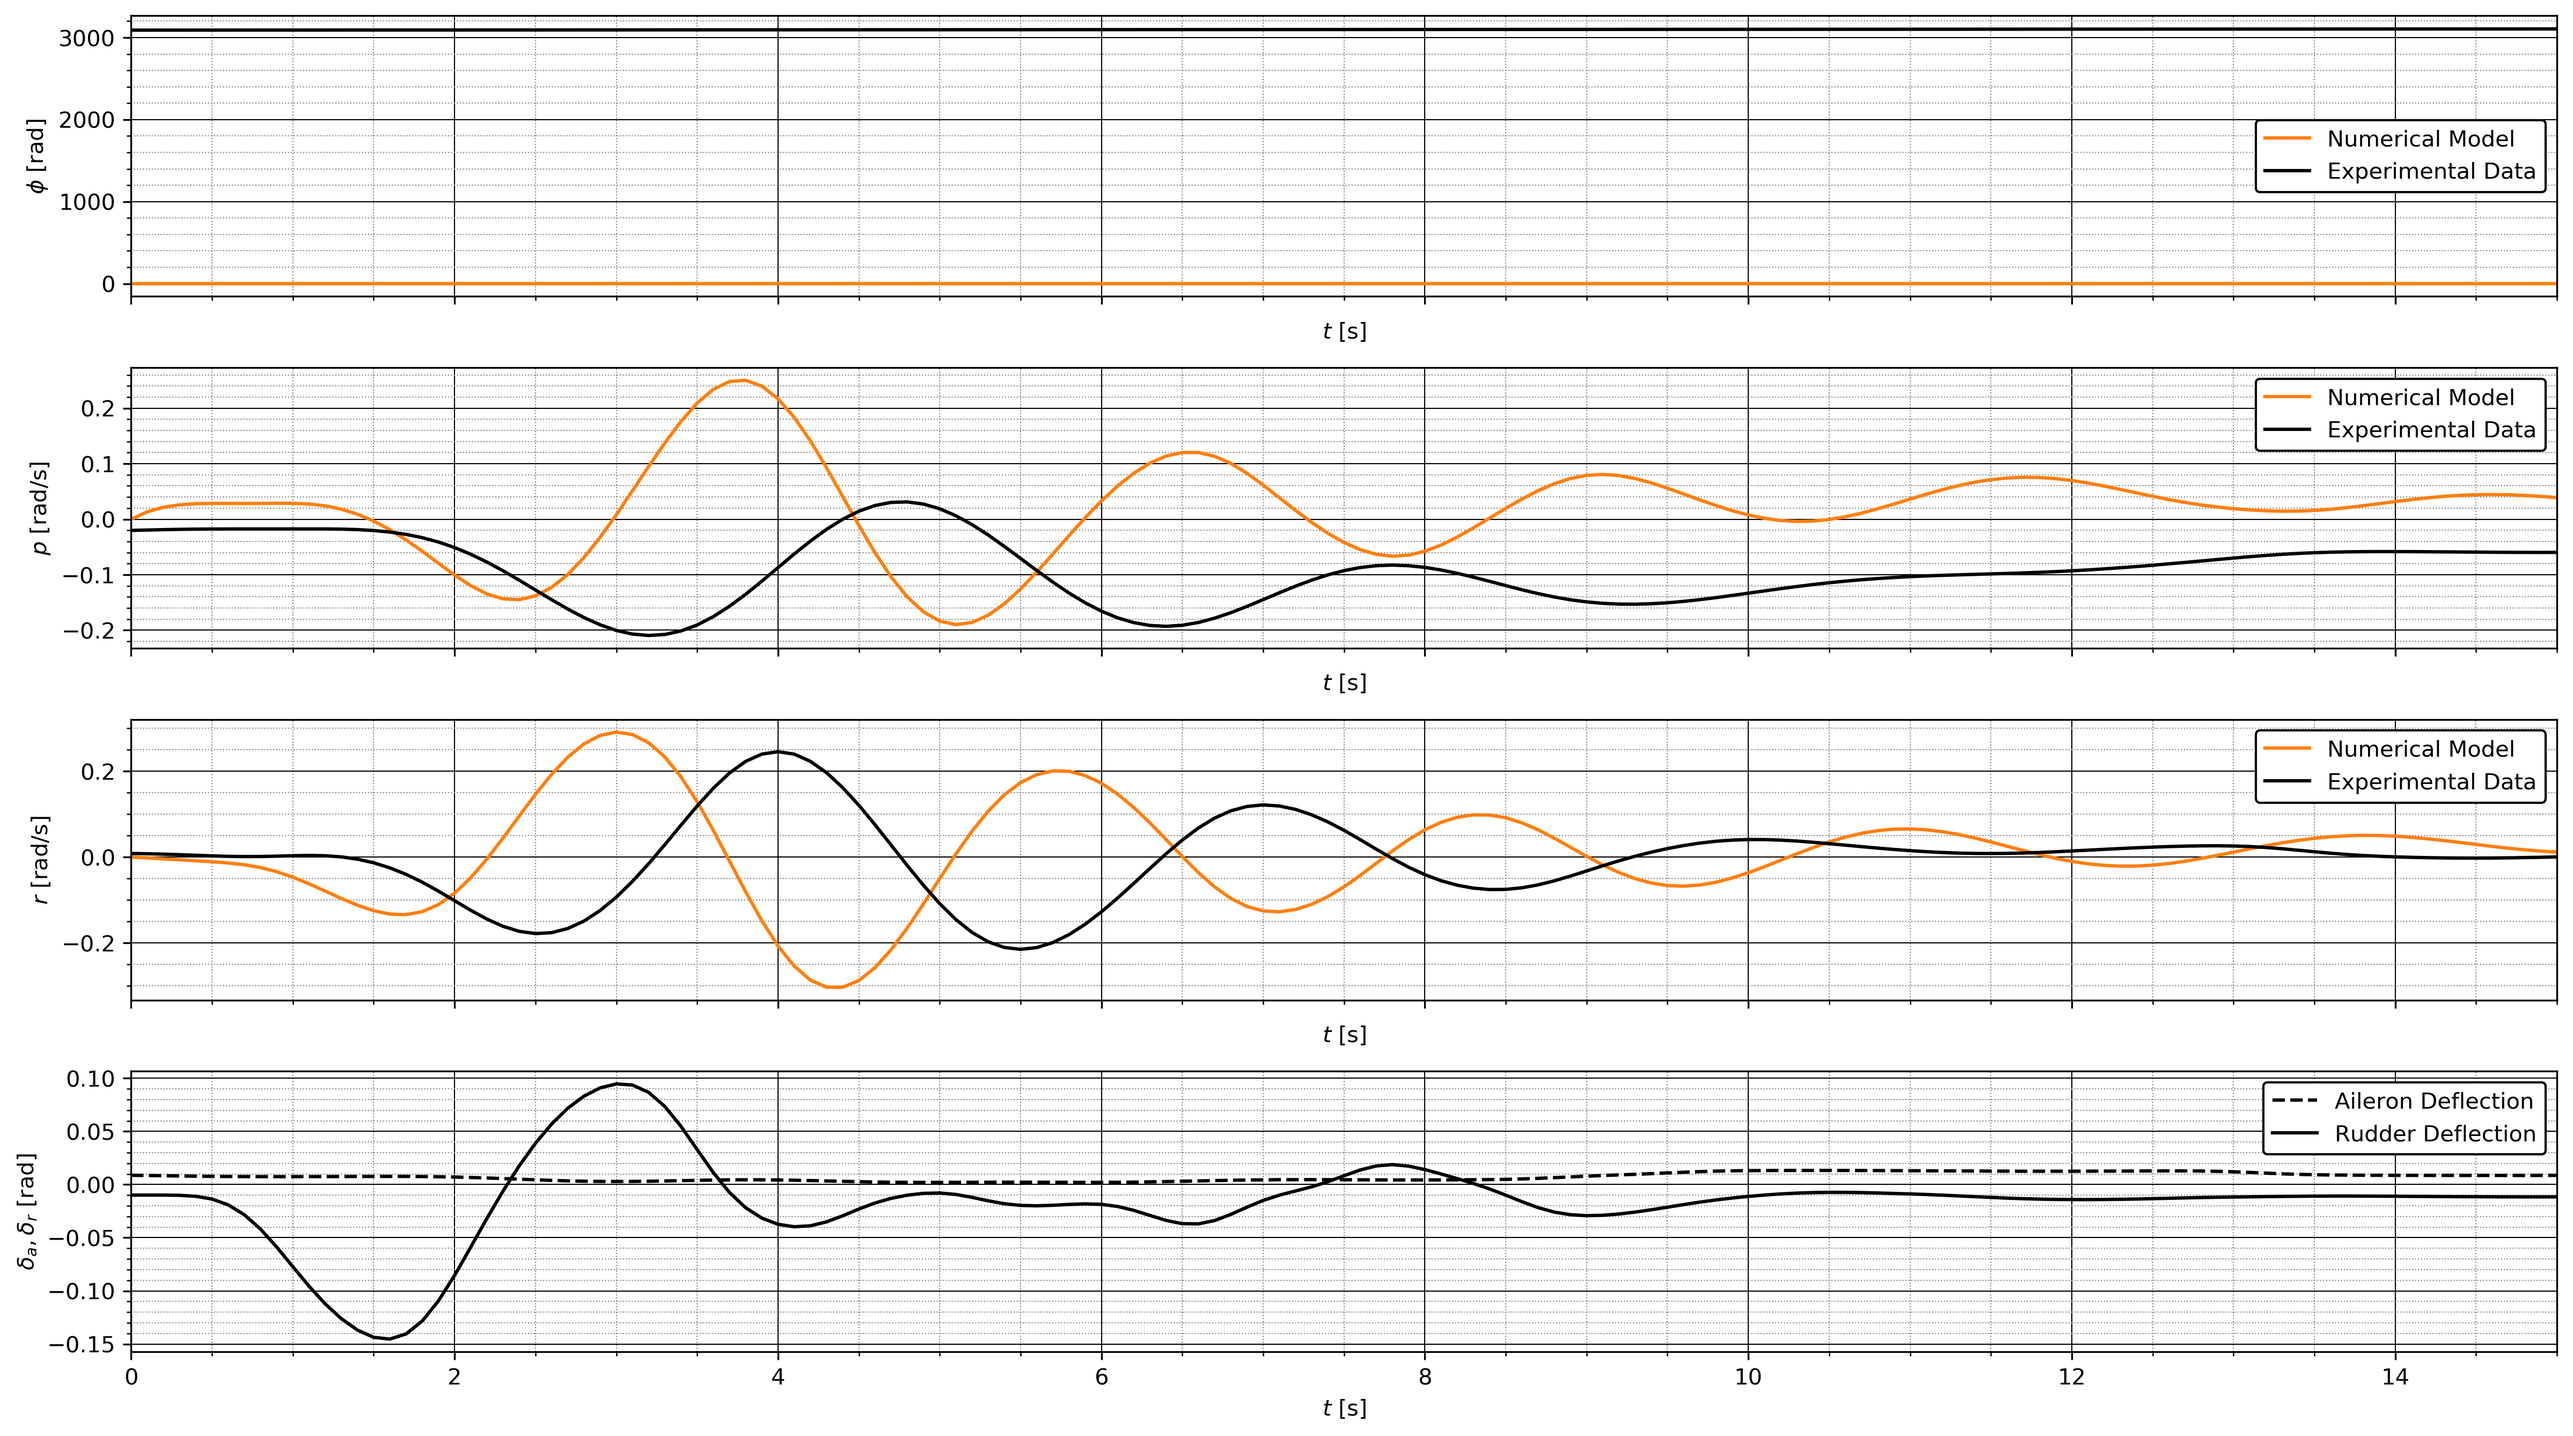
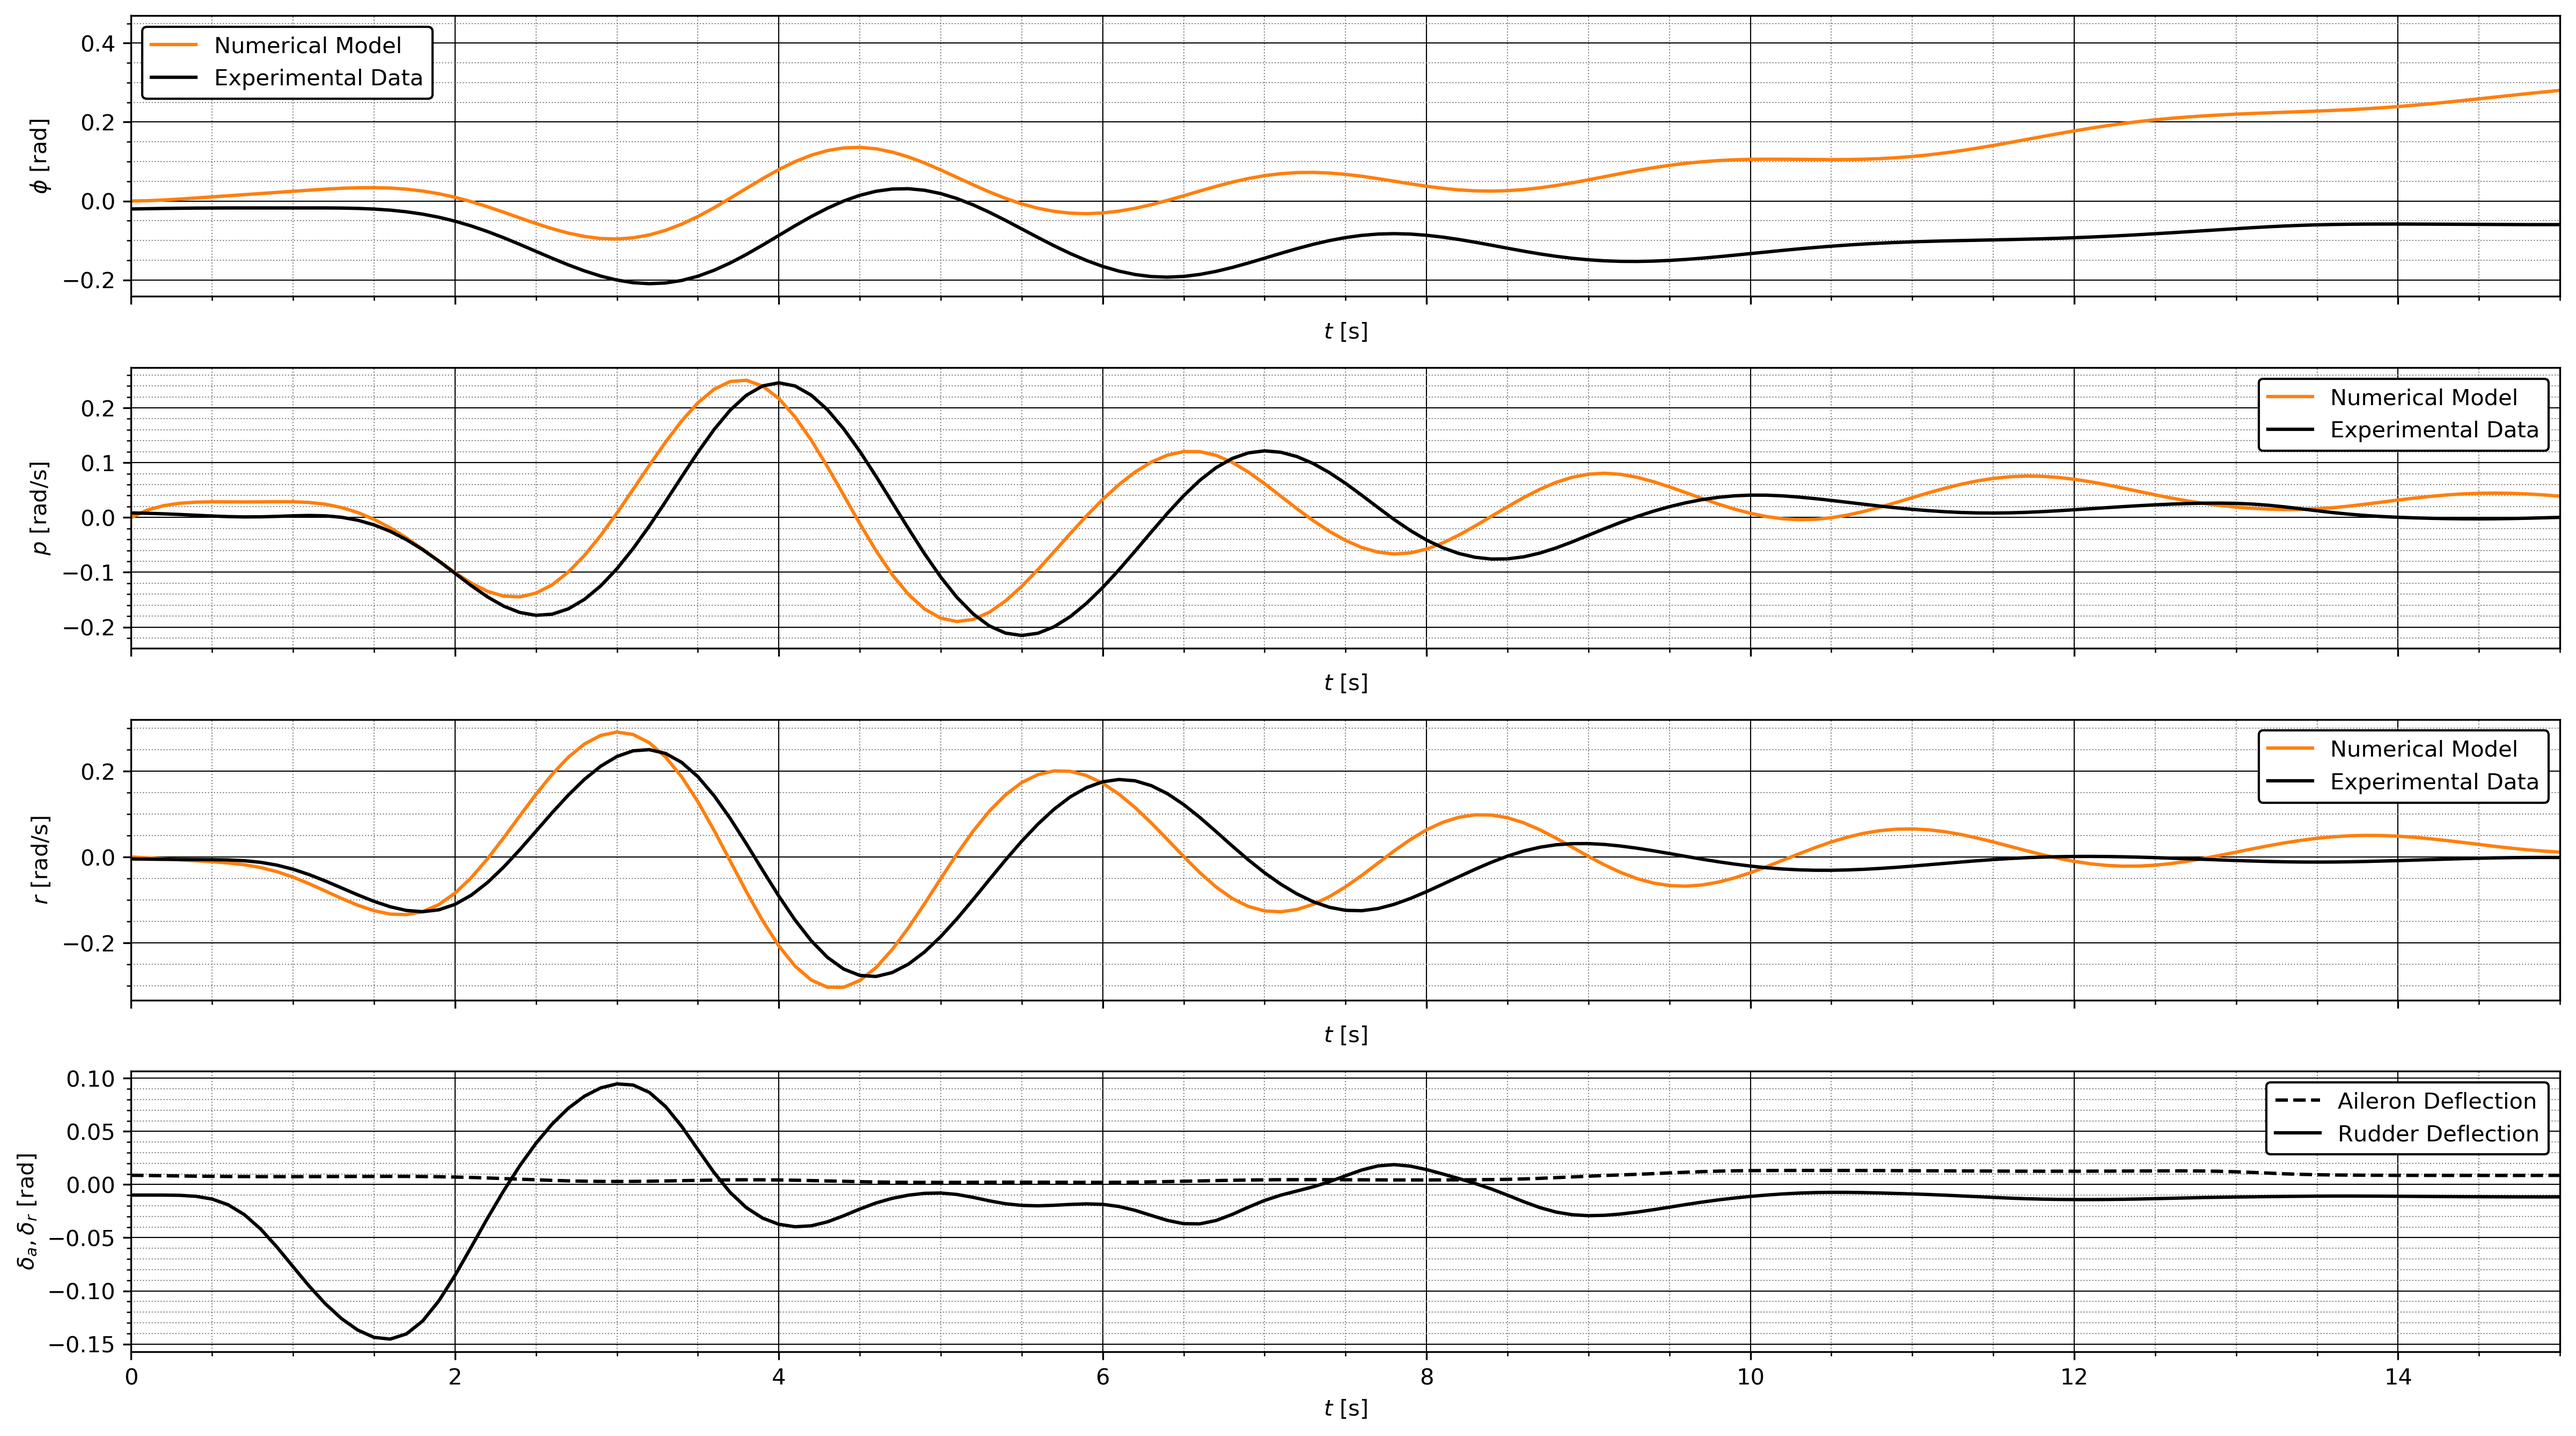
eigenvalues added

diff --git a/main.py b/main.py
@@ -304,11 +304,11 @@ for motion in ['phugoid', 'shortperiod', 'aperroll', 'dutchroll', 'dutchrollYD',
 
     m      = m.mass.iloc[0]                                                                  # [kg] takeoff weight of Cessna Citation II
 
-    e      = 0.5662173213929709                                                              # [-] Oswald factor
+    e      = 0.5949711666751891                                                              # [-] Oswald factor
     # e      = 0.8                                                                             # [-] Oswald factor reference data
-    CD0    = 0.0255504796766271                                                              # [-] Zero lift drag coefficient
+    CD0    = 0.01976539072252899                                                              # [-] Zero lift drag coefficient
     # CD0    = 0.04                                                                            # [-] Zero lift drag coefficient reference data
-    CLa    = 4.557979876353312                                                               # [1/rad] Slope of CL-alpha curve
+    CLa    = 3.8926163611249893                                                               # [1/rad] Slope of CL-alpha curve
     # CLa    = 5.084                                                                           # [1/rad] Slope of CL-alpha curve reference data
 
     Cma    = -0.582128                                                                       # [-] longitudinal stabilty
@@ -494,6 +494,10 @@ for motion in ['phugoid', 'shortperiod', 'aperroll', 'dutchroll', 'dutchrollYD',
         syss = ctl.StateSpace(A_s, B_s, C, D)                                                 # create state-space system for symmetric eigenmotions
         evals, evecs = eig(A_s)                                                               # compute eigenvalues and eigenvectors
 
+        for i in range(0, len(evals)):                                                       # write eigenvalues to textfile
+            f = open('eigenvalues.txt', 'a+')                                                # append lines to existing .txt-file
+            f.write("{}, lambda{}: {} \n".format(motion, (i+1), evals[i]))                   # write eigenvalues
+
         tstop = data.time.iloc[-1] - data.time.iloc[0]                                       # normalise final time value for manouvre
         dt  = np.arange(0, tstop + 0.1, 0.1)                                                 # create time vector with 0.1s step size
 
@@ -532,7 +536,7 @@ for motion in ['phugoid', 'shortperiod', 'aperroll', 'dutchroll', 'dutchrollYD',
             fig1, ax1 = plt.subplots(4,1, squeeze=False, figsize=(16,9))                     # initialise figure with 4 rows and 1 column
             for i in range(0,3):
                 ax1[i,0].plot(t, eigenmotion.iloc[:,i+1], 'C1', label='Numerical Model')     # plot each variable from output vector
-                ax1[i,0].plot(t, flightdata.iloc[:,i], c='k', label='Experimental Data')     # plot each variable from test flight data
+                ax1[i,0].plot(t, flightdata.iloc[:,i+1], c='k', label='Experimental Data')   # plot each variable from test flight data
                 ax1[i,0].set_xticklabels([])                                                 # remove values on x-axis
                 ax1[i,0].set_xlim(0, 120)                                                    # set xmin at 0 and tstop
                 ax1[i,0].set_ylabel('${}$ {}'.format(eigenmotion.columns[i+1], units[i+1]))  # set label of y-axis
@@ -573,7 +577,7 @@ for motion in ['phugoid', 'shortperiod', 'aperroll', 'dutchroll', 'dutchrollYD',
             fig1, ax1 = plt.subplots(4,1, squeeze=False, figsize=(16,9))                     # initialise figure with 4 rows and 1 column
             for i in range(0,3):
                 ax1[i,0].plot(t, eigenmotion.iloc[:,i+1], 'C21', label='Numerical Model')    # plot each variable from output vector
-                ax1[i,0].plot(t, flightdata.iloc[:,i], c='k', label='Experimental Data')     # plot each variable from test flight data
+                ax1[i,0].plot(t, flightdata.iloc[:,i+1], c='k', label='Experimental Data')   # plot each variable from test flight data
                 ax1[i,0].set_xlabel('$t$ [s]')                                               # set label of x-axis
                 ax1[i,0].set_xticklabels([])                                                 # remove values on x-axis
                 ax1[i,0].set_xlim(0, 10)                                                     # set xmin at 0 and tstp
@@ -604,6 +608,10 @@ for motion in ['phugoid', 'shortperiod', 'aperroll', 'dutchroll', 'dutchrollYD',
         sysa = ctl.StateSpace(A_a, B_a, C, D)                                                # create state-space system for symmetric eigenmotions
         evals, evecs = eig(A_a)                                                              # compute eigenvalues and eigenvectors
 
+        for i in range(0, len(evals)):                                                       # write eigenvalues to textfile
+            f = open('eigenvalues.txt', 'a+')                                                # append lines to existing .txt-file
+            f.write("{}, lambda{}: {} \n".format(motion, (i+1), evals[i]))                   # write eigenvalues
+
         tstop = data.time.iloc[-1] - data.time.iloc[0]                                       # normalise final time value for manouvre
         dt  = np.arange(0, tstop + 0.1, 0.1)                                                 # create time vector with 0.1s step size
 
@@ -627,7 +635,7 @@ for motion in ['phugoid', 'shortperiod', 'aperroll', 'dutchroll', 'dutchrollYD',
             fig1, ax1 = plt.subplots(4,1, squeeze=False, figsize=(16,9))                     # initialise figure with 4 rows and 1 column
             for i in range(0,3):
                 ax1[i,0].plot(t, eigenmotion.iloc[:,i+1], 'C1', label='Numerical Model')     # plot each variable from output vector
-                ax1[i,0].plot(t, flightdata.iloc[:,i], c='k', label='Experimental Data')     # plot each variable from test flight data
+                ax1[i,0].plot(t, flightdata.iloc[:,i+1], c='k', label='Experimental Data')   # plot each variable from test flight data
                 ax1[i,0].set_xlabel('$t$ [s]')                                               # set label of x-axis
                 ax1[i,0].set_xticklabels([])                                                 # remove values on x-axis
                 ax1[i,0].set_xlim(0, 13)                                                     # set xmin at 0
@@ -656,7 +664,7 @@ for motion in ['phugoid', 'shortperiod', 'aperroll', 'dutchroll', 'dutchrollYD',
             fig1, ax1 = plt.subplots(4,1, squeeze=False, figsize=(16,9))                     # initialise figure with 4 rows and 1 column
             for i in range(0,3):
                 ax1[i,0].plot(t, eigenmotion.iloc[:,i+1], 'C1', label='Numerical Model')     # plot each variable from output vector
-                ax1[i,0].plot(t, flightdata.iloc[:,i], c='k', label='Experimental Data')     # plot each variable from test flight data
+                ax1[i,0].plot(t, flightdata.iloc[:,i+1], c='k', label='Experimental Data')   # plot each variable from test flight data
                 ax1[i,0].set_xlabel('$t$ [s]')                                               # set label of x-axis
                 ax1[i,0].set_xticklabels([])                                                 # remove values on x-axis
                 ax1[i,0].set_xlim(0, 20)                                                     # set xmin at 0 and tstop
@@ -685,7 +693,7 @@ for motion in ['phugoid', 'shortperiod', 'aperroll', 'dutchroll', 'dutchrollYD',
             fig1, ax1 = plt.subplots(4,1, squeeze=False, figsize=(16,9))                     # initialise figure with 4 rows and 1 column
             for i in range(0,3):
                 ax1[i,0].plot(t, eigenmotion.iloc[:,i+1], 'C1', label='Numerical Model')     # plot each variable from output vector
-                ax1[i,0].plot(t, flightdata.iloc[:,i], c='k', label='Experimental Data')     # plot each variable from test flight data
+                ax1[i,0].plot(t, flightdata.iloc[:,i+1], c='k', label='Experimental Data')   # plot each variable from test flight data
                 ax1[i,0].set_xlabel('$t$ [s]')                                               # set label of x-axis
                 ax1[i,0].set_xticklabels([])                                                 # remove values on x-axis
                 ax1[i,0].set_xlim(0, 15)                                                     # set xmin at 0
@@ -714,7 +722,7 @@ for motion in ['phugoid', 'shortperiod', 'aperroll', 'dutchroll', 'dutchrollYD',
             fig1, ax1 = plt.subplots(4,1, squeeze=False, figsize=(16,9))                     # initialise figure with 4 rows and 1 column
             for i in range(0,3):
                 ax1[i,0].plot(t, eigenmotion.iloc[:,i+1], 'C1', label='Numerical Model')     # plot each variable from output vector
-                ax1[i,0].plot(t, flightdata.iloc[:,i], c='k', label='Experimental Data')     # plot each variable from test flight data
+                ax1[i,0].plot(t, flightdata.iloc[:,i+1], c='k', label='Experimental Data')   # plot each variable from test flight data
                 ax1[i,0].set_xlabel('$t$ [s]')                                               # set label of x-axis
                 ax1[i,0].set_xticklabels([])                                                 # remove values on x-axis
                 ax1[i,0].set_xlim(0, 110)                                                    # set xmin at 0
